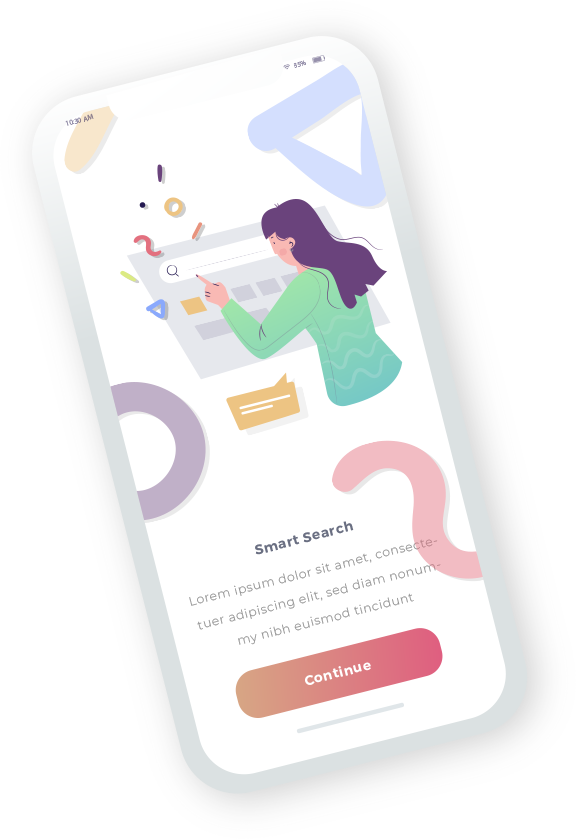
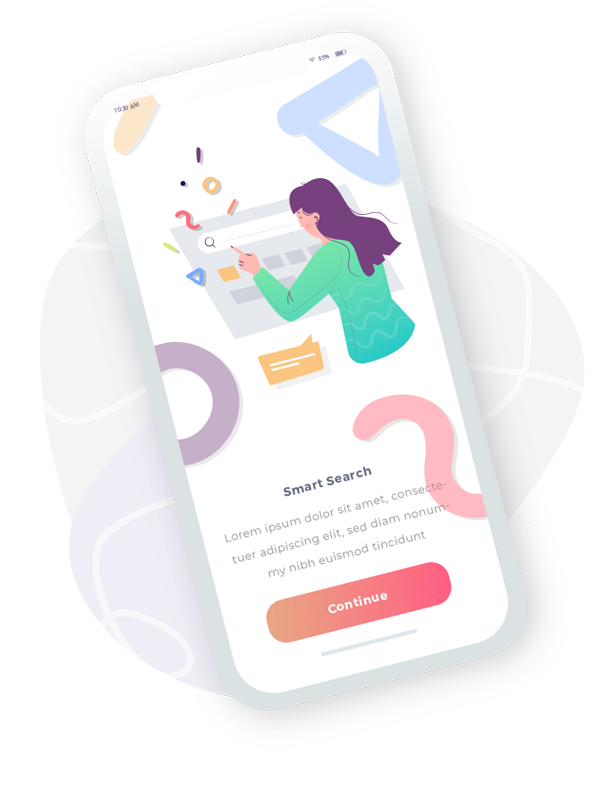
silly update

diff --git a/style.css b/style.css
@@ -85,7 +85,7 @@ body{
     background-image: url("./image/bd-app.png");
     background-position: bottom;
     background-repeat: no-repeat;
-    height: 100vh;
+    
 
 }
 .modern-app-info {
